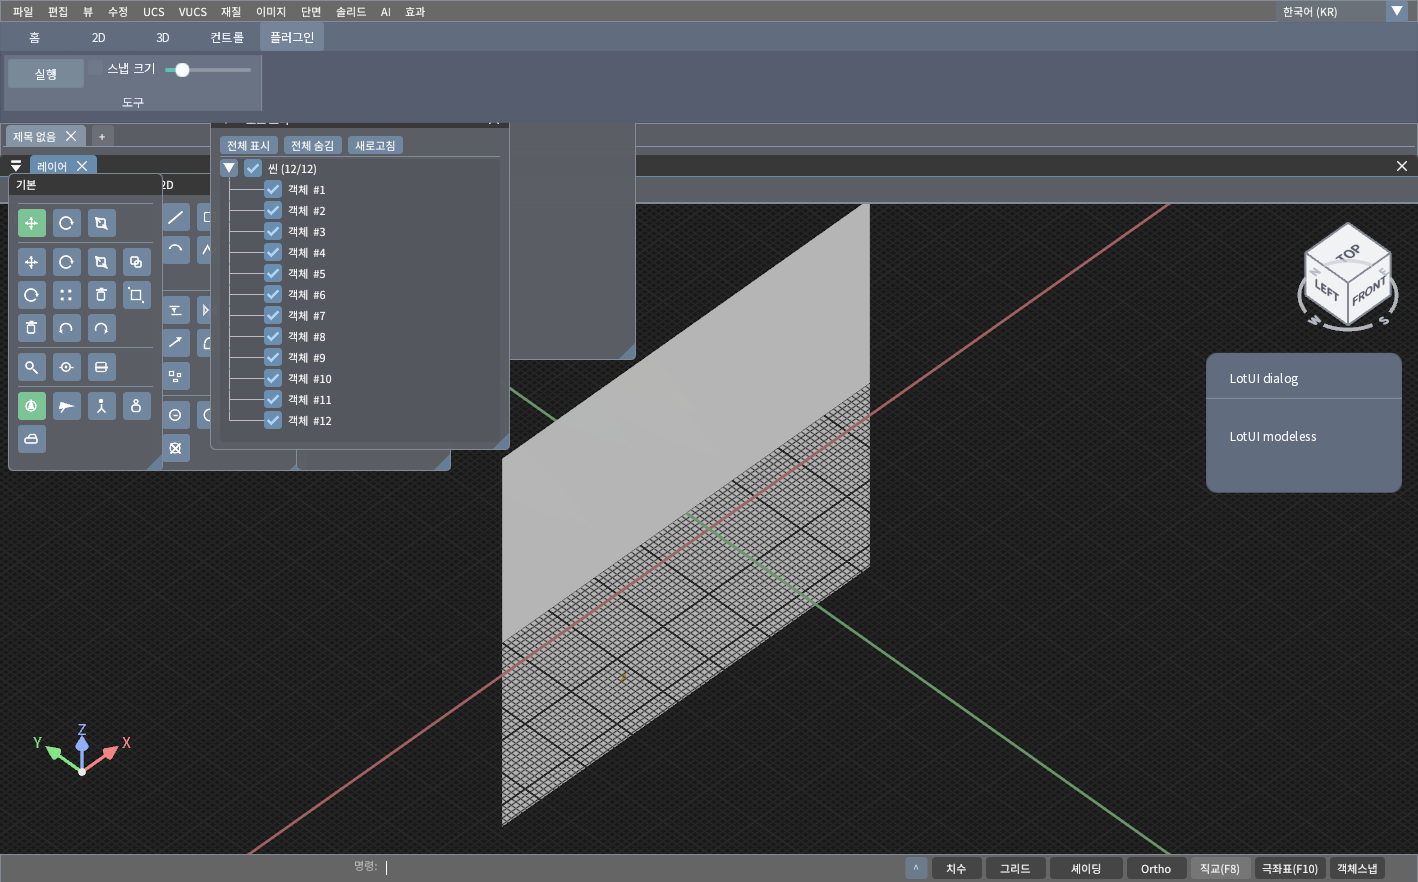
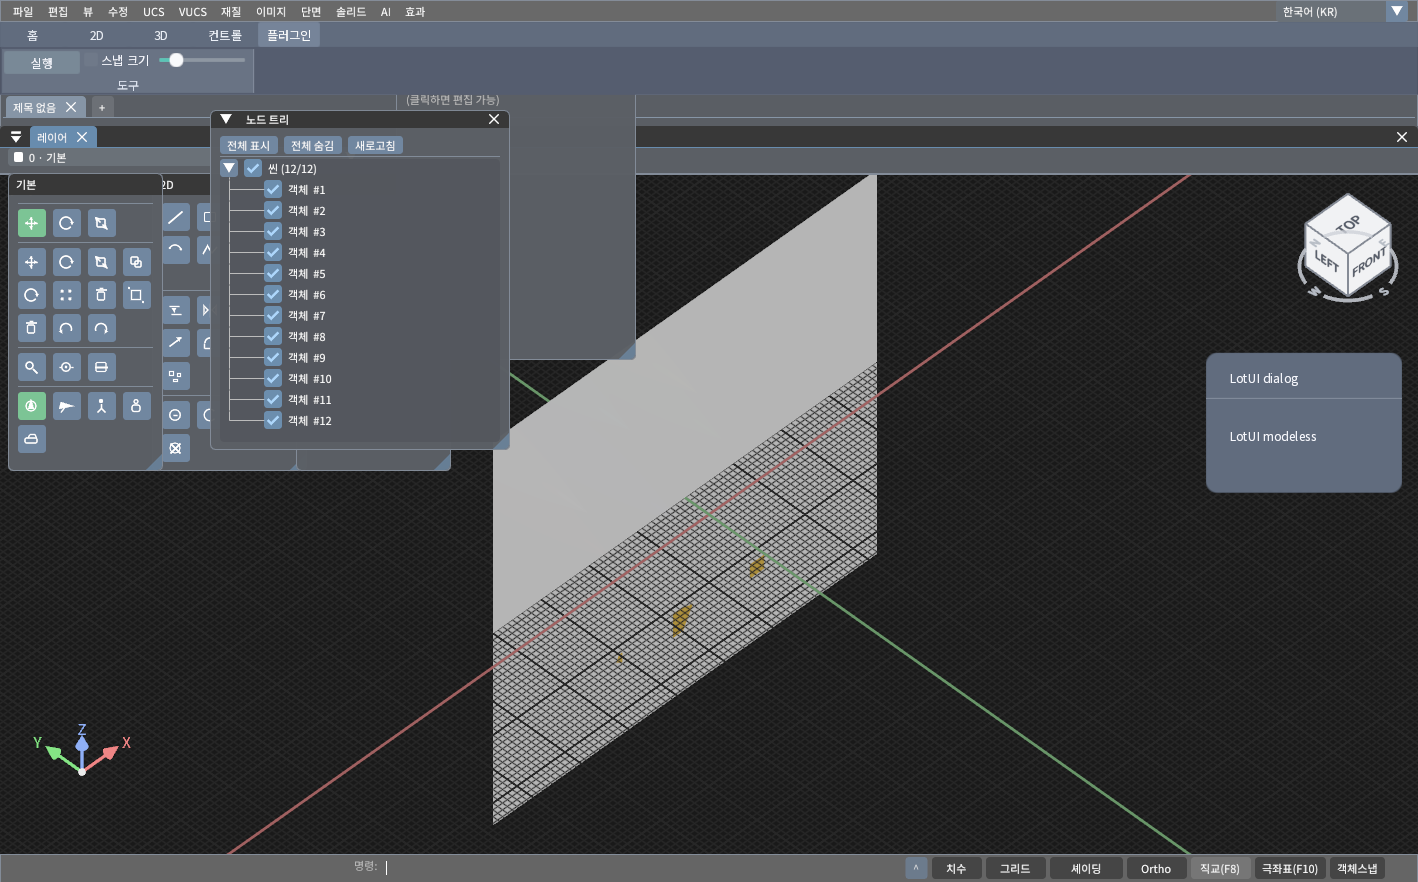
Reduce embedded ribbon height and control spacing

diff --git a/integrations/3dengine/lotui_smoke/main.cpp b/integrations/3dengine/lotui_smoke/main.cpp
@@ -32,6 +32,8 @@
 
 namespace {
 
+constexpr float kRibbonHeight = 72.0F;
+
 template<typename Handle>
 Handle fromBits(std::uint64_t bits) noexcept {
     if constexpr (std::is_pointer_v<Handle>) {
@@ -135,13 +137,13 @@ struct Demo {
         style.hovered = {0.26F, 0.39F, 0.45F, 1.0F};
         style.pressed = {0.11F, 0.55F, 0.47F, 1.0F};
         style.cornerRadius = 3.0F;
-        style.contentPadding = lotui::EdgeInsets::all(3.0F);
+        style.contentPadding = lotui::EdgeInsets::all(2.0F);
         auto label = std::make_unique<lotui::Label>(
             text, std::move(title), labelStyle());
         label->setHorizontalAlignment(lotui::HorizontalTextAlignment::Center);
         label->setVerticalAlignment(lotui::VerticalTextAlignment::Center);
         return std::make_unique<lotui::Button>(
-            std::move(label), lotui::Size{width, 29.0F},
+            std::move(label), lotui::Size{width, 23.0F},
             std::move(action), style);
     }
 
@@ -169,10 +171,10 @@ struct Demo {
         root->setOptions(rootLayout);
 
         lotui::RibbonStyle ribbonStyle;
-        ribbonStyle.preferredHeight = 101.0F;
-        ribbonStyle.tabBarHeight = 29.0F;
-        ribbonStyle.contentPadding = lotui::EdgeInsets::all(4.0F);
-        ribbonStyle.tabHorizontalPadding = 10.0F;
+        ribbonStyle.preferredHeight = kRibbonHeight;
+        ribbonStyle.tabBarHeight = 25.0F;
+        ribbonStyle.contentPadding = lotui::EdgeInsets::all(2.0F);
+        ribbonStyle.tabHorizontalPadding = 8.0F;
         ribbonStyle.minimumTabWidth = 62.0F;
         ribbonStyle.tabCornerRadius = 3.0F;
         auto ribbonWidget = std::make_unique<lotui::Ribbon>(
@@ -182,8 +184,8 @@ struct Demo {
             std::unique_ptr<lotui::Widget> controls) {
             lotui::RibbonGroupStyle style;
             style.cornerRadius = 0.0F;
-            style.titleHeight = 19.0F;
-            style.contentPadding = lotui::EdgeInsets::all(4.0F);
+            style.titleHeight = 14.0F;
+            style.contentPadding = lotui::EdgeInsets::all(2.0F);
             row.addChild(std::make_unique<lotui::RibbonGroup>(text,
                 std::move(title), std::move(controls), style,
                 labelStyle()));
@@ -204,7 +206,7 @@ struct Demo {
 
         auto controls = std::make_unique<lotui::Row>();
         lotui::LinearLayoutOptions controlLayout;
-        controlLayout.spacing = 7.0F;
+        controlLayout.spacing = 5.0F;
         controlLayout.mainAxisSize = lotui::MainAxisSize::Min;
         controls->setOptions(controlLayout);
         auto open = textButton("대화상자", [this] { showModal(); }, 94.0F);
@@ -212,7 +214,7 @@ struct Demo {
         controls->addChild(std::move(open));
         lotui::SliderOptions sliderOptions;
         sliderOptions.value = 35.0;
-        sliderOptions.preferredSize = {124.0F, 22.0F};
+        sliderOptions.preferredSize = {124.0F, 18.0F};
         auto sliderWidget = std::make_unique<lotui::Slider>(sliderOptions);
         slider = sliderWidget.get();
         controls->addChild(std::move(sliderWidget));
@@ -296,8 +298,8 @@ struct Demo {
                 for (const auto& item : group.items) {
                     if (item.kind == 5) {
                         lotui::CheckboxStyle style;
-                        style.boxSize = 15.0F;
-                        style.spacing = 4.0F;
+                        style.boxSize = 14.0F;
+                        style.spacing = 3.0F;
                         auto checkbox = std::make_unique<lotui::Checkbox>(
                             std::make_unique<lotui::Label>(
                                 text, item.title, labelStyle()),
@@ -321,7 +323,7 @@ struct Demo {
                         sliderOptions.minimum = item.minimum;
                         sliderOptions.maximum = item.maximum;
                         sliderOptions.value = item.value;
-                        sliderOptions.preferredSize = {100.0F, 22.0F};
+                        sliderOptions.preferredSize = {100.0F, 18.0F};
                         auto sliderWidget = std::make_unique<lotui::Slider>(
                             sliderOptions,
                             [id = item.id, command = item.command](double value) {
@@ -469,7 +471,7 @@ int main(int argc, char** argv) {
             if (!CAD_CreateEngine()) {
                 throw std::runtime_error("CAD_CreateEngine failed");
             }
-            CAD_SetOverlayRibbonHeight(101.0F);
+            CAD_SetOverlayRibbonHeight(kRibbonHeight);
             int pluginClicks = 0;
             struct ControlProbe {
                 unsigned int id{0};
